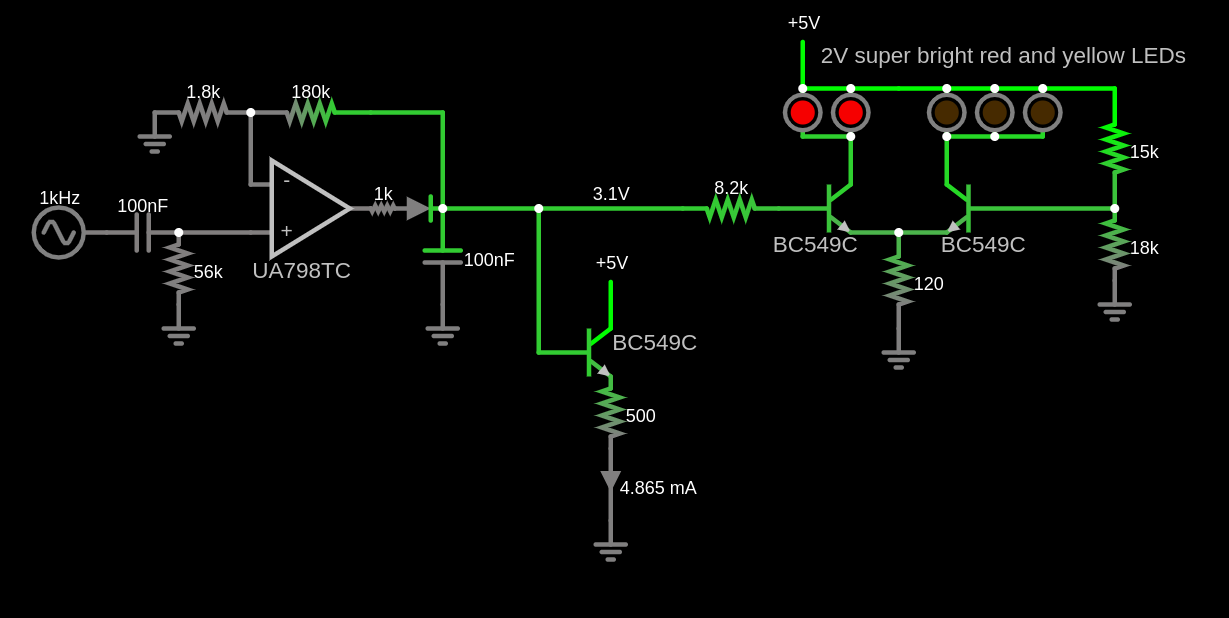
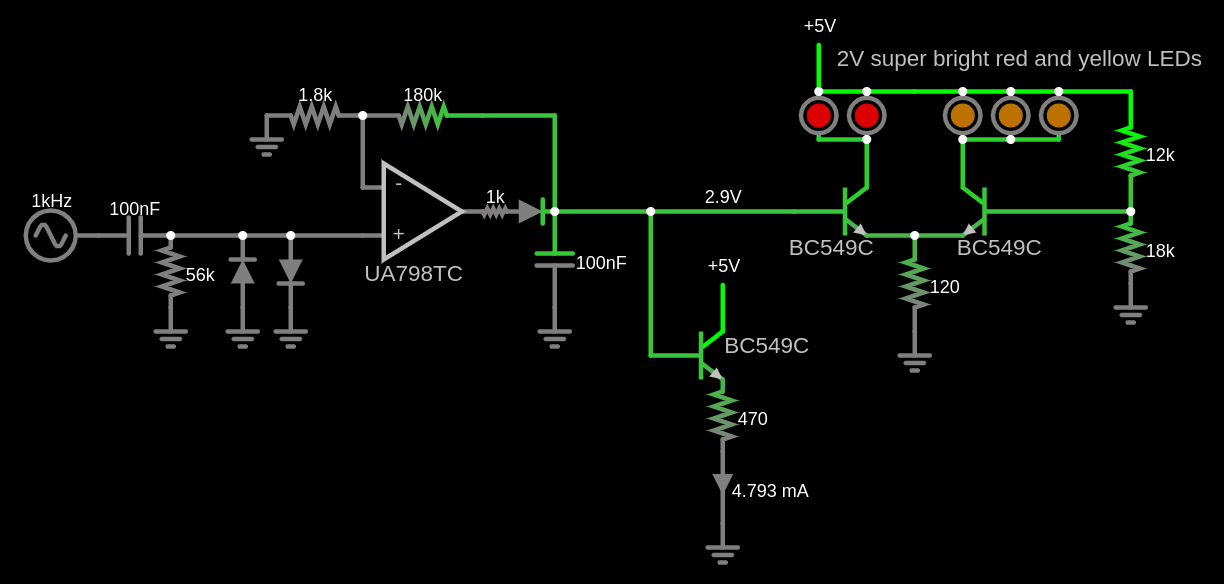
doc updates

diff --git a/README.md b/README.md
@@ -31,16 +31,15 @@ The other half is similar.
 
 At a high-level, my circuit:
 - removes any DC offset from the headphones signal (this seems to be unnecessary, but doesn't hurt)
+- clamps the input voltage between +-0.7V using diodes
 - amplifies the input by 100x and stores the amplified max voltage into a capacitor
 - uses a transistor connected as a voltage follower to drive the AliExpress current meter
 - uses transistors to drive red or yellow LEDs (or both),
     depending on whether we are showing a value near 100%,
     using [this transistor trick](https://electronics.stackexchange.com/q/164068).
 
-I used BC549C transistors and a UA798TC dual op-amp,
+I used 1N4148 diodes, BC549C transistors and a UA798TC dual op-amp,
 because I already had them.
-With small modifications, you can use whatever parts are available to you.
-Also, the resistor values don't need to match mine exactly.
 
 The op-amp's output must go near the ground.
 With no input signal, my dual op-amp charges the 100nF capacitor to 270mV on one side and 400mV on the other side.
@@ -50,13 +49,19 @@ so it would be impossible to make the meter go to zero.
 
 The UA798TC doesn't swing all the way to +5V, but it doesn't matter.
 For example, at 3.7V, the meter will surely hit its maximum,
-because there is enough voltage to
-go through the diode (0.6V), turn on the transistor (0.6V)
-and drive 5mA through the 500 Ohm resistor (2.5V).
+because even with a 0.7V diode drop in the transistor's base-emitter junction,
+we would get `3V / 470ohm ≈ 6.3mA` through the current meter.
+
+The 100nF capacitor discharges quite quickly
+depending on the current gain (hFE) of the transistors.
+Practically this means that the meters tend to show a lower value than you would expect.
+Usually anything that depends on the current gain is considered bad design,
+but in this case I think it's fine, because it's easy to work around in software:
+I could use a higher frequency, or I can just send larger signals to compensate.
 
 The small 1k "resistor" represents the op-amp's internal output resistance.
-The output resistance of my op-amp seems to be much smaller than 1k,
-but I used 1k in the simulation to make sure it will work.
+The datasheet says that the output resistance of a UA798TC is typically 800ohm,
+but doesn't specify minimum or maximum values.
 
 
 ## Software Setup
@@ -81,9 +86,12 @@ The GUI looks like this:
 ![config GUI](config-screenshot.png)
 
 Each slider sets the audio volume used to move the meter to a given position.
+As you hover or drag the sliders, the meter shows the value set by the slider,
+so that you know where the slider should be.
+
 Linear interpolation is used.
 For example, to move the meter to 65%,
-the software will play audio with half the volume set by the 60% and 70% sliders.
+the software will play audio whose volume is the average of the 60% and 70% sliders.
 
 Once configured, you can start displaying CPU and memory usage:
 
